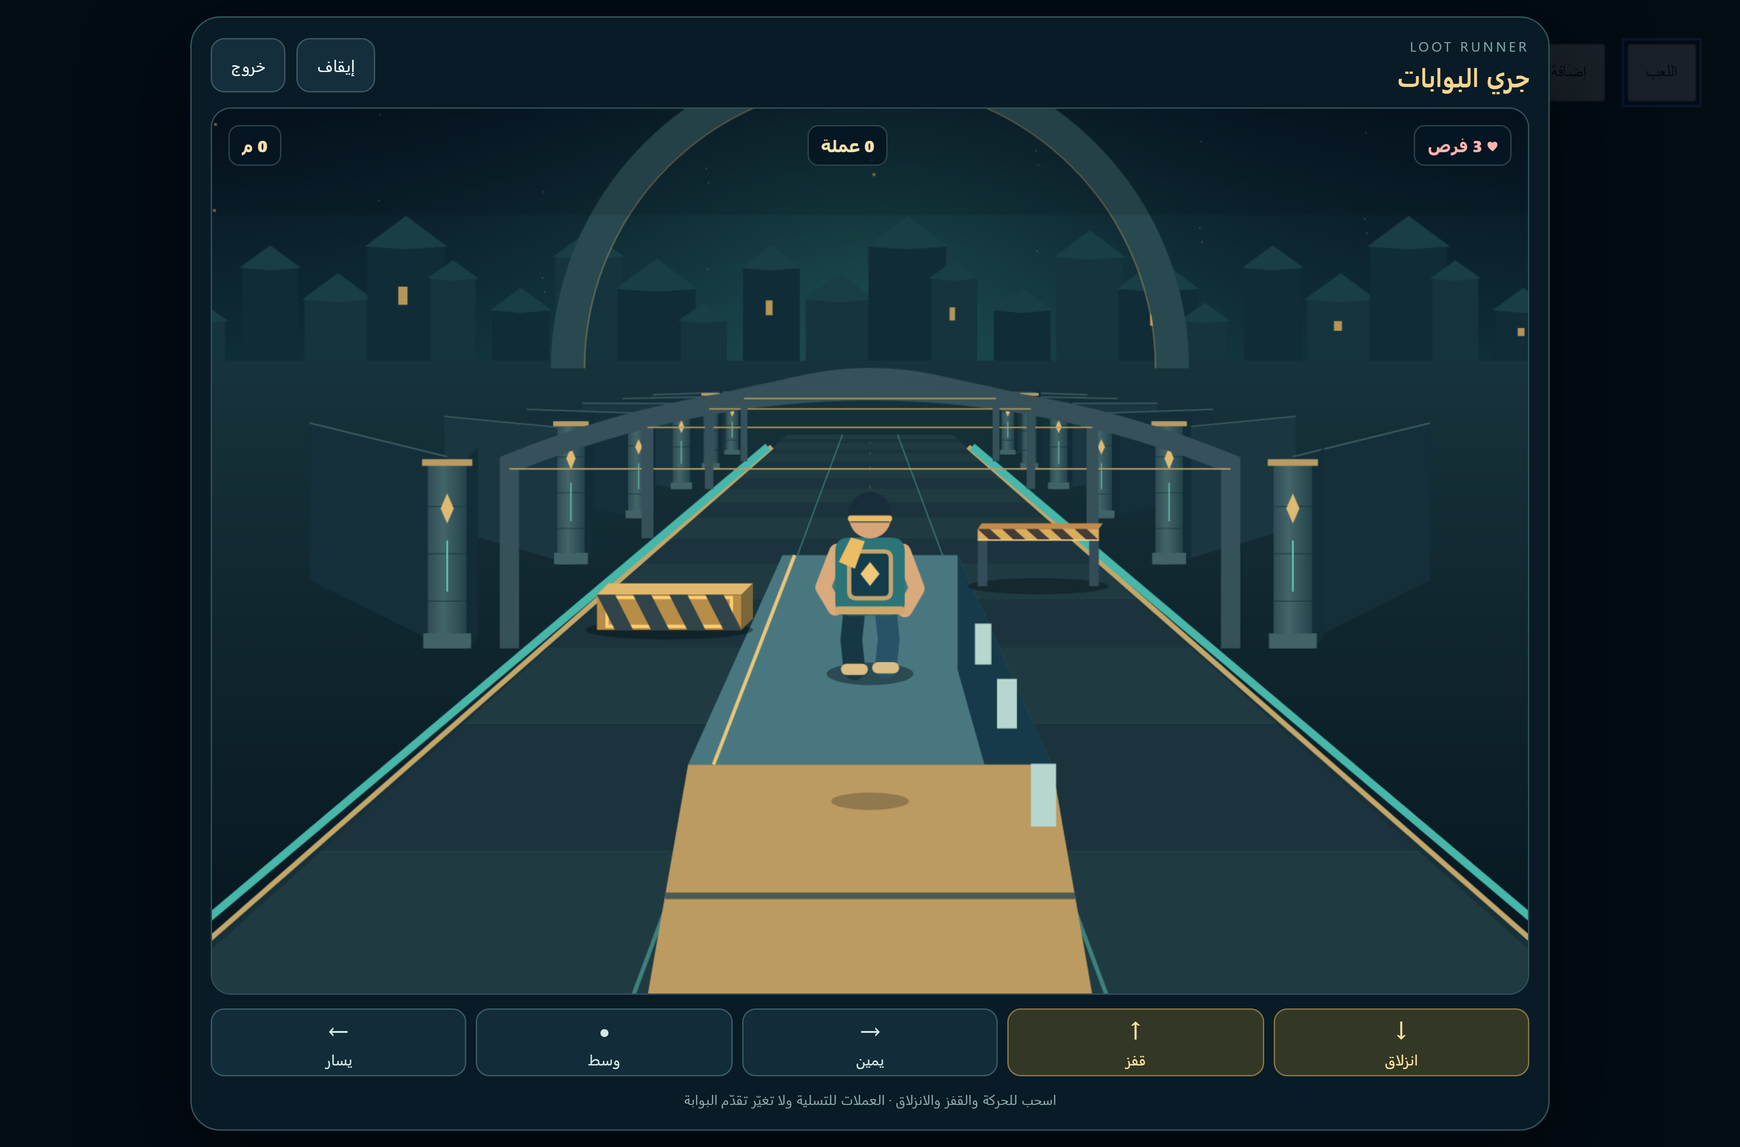
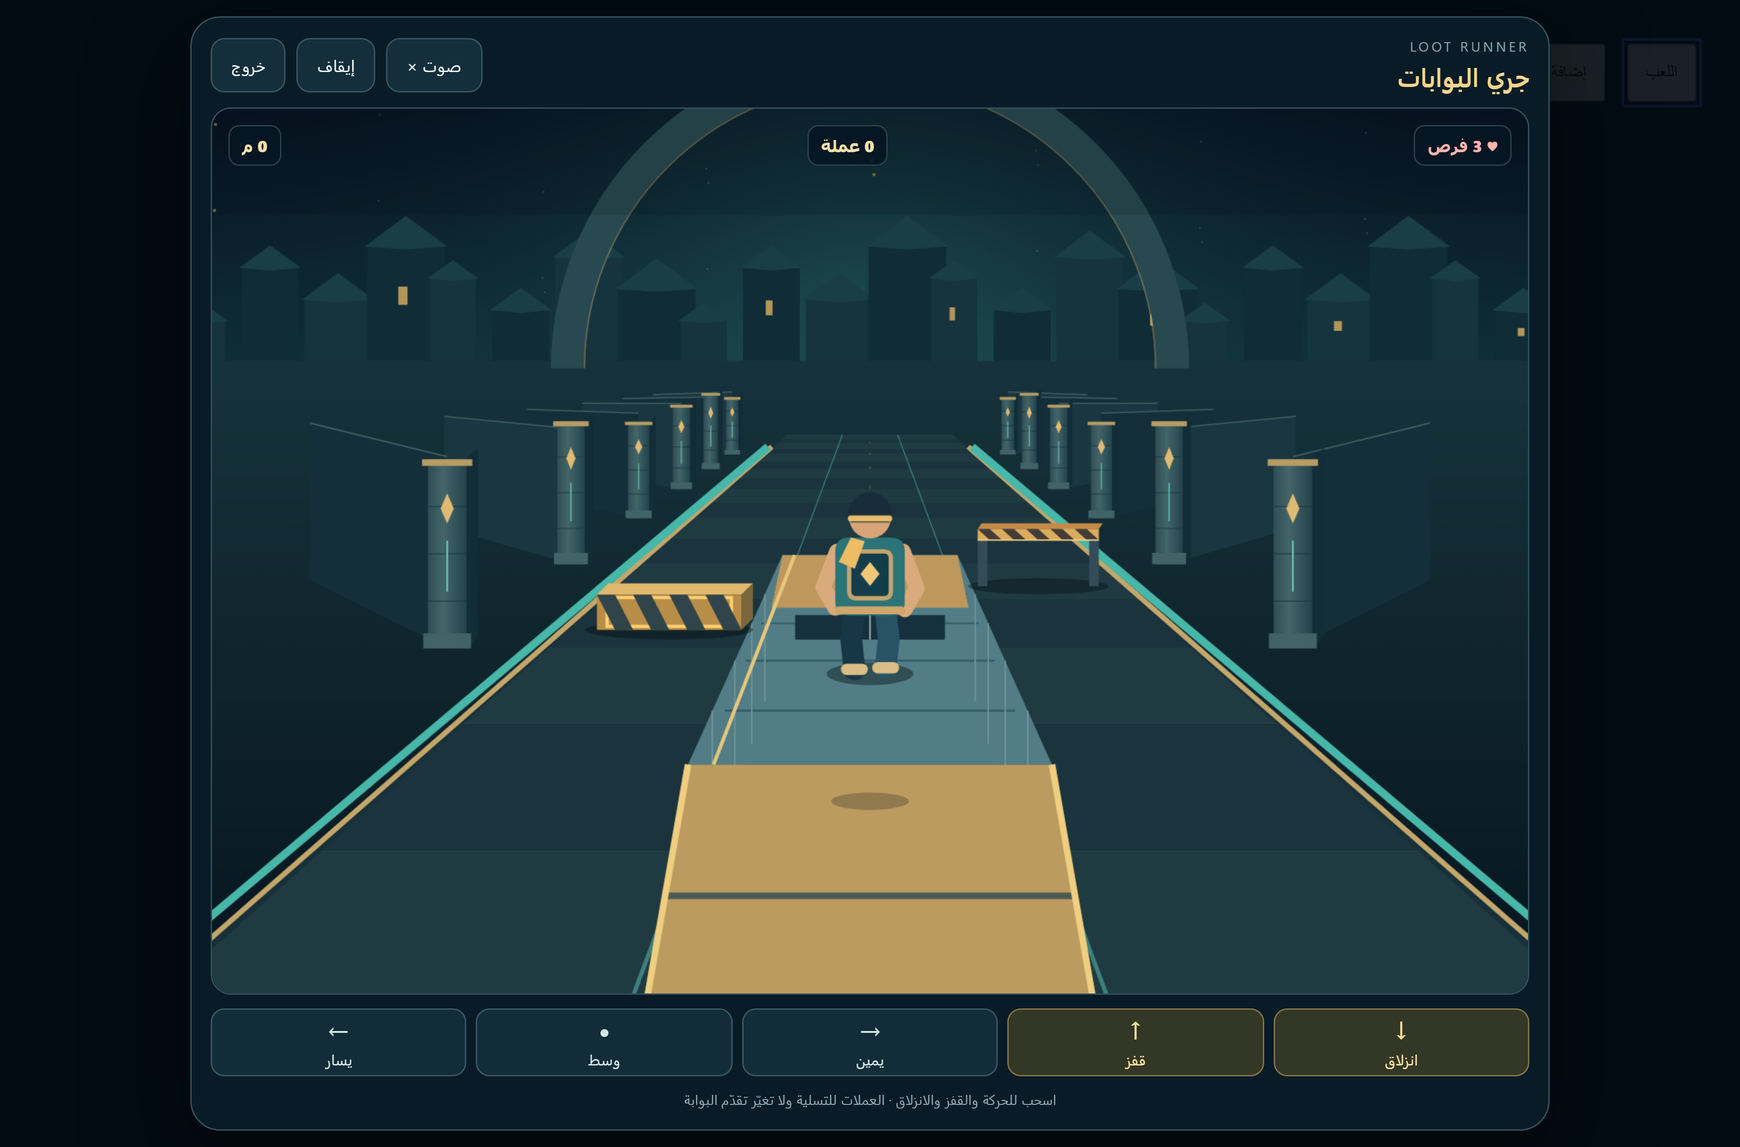
Polish runner truck, recovery gap, challenge coins and optional chimes

Changed region(s): [[0.2812, 0.312, 0.7188, 0.5616], [0.4375, 0.468, 0.625, 0.8424], [0.375, 0.6864, 0.4062, 0.8424]]

diff --git a/js/gate-runner.js b/js/gate-runner.js
@@ -67,15 +67,53 @@
     });
     const css = document.querySelector('link[data-runner-style]');
     const styles = css ? Promise.resolve() : new Promise((resolve, reject) => {
-      const link = document.createElement('link'); link.rel = 'stylesheet'; link.href = 'runner.css?v=20261106-runner-2';
+      const link = document.createElement('link'); link.rel = 'stylesheet'; link.href = 'runner.css?v=20261106-runner-3';
       link.dataset.runnerStyle = ''; link.onload = resolve; link.onerror = () => { link.remove(); reject(new Error('Runner styles unavailable')); };
       document.head.append(link);
     });
-    resources = Promise.all([styles, module('LootLinguaRunnerEngine', 'js/runner-engine.js?v=20261106-runner-2'), module('LootLinguaRunnerRenderer', 'js/runner-renderer.js?v=20261106-runner-2')]).catch(error => { resources = null; throw error; });
+    resources = Promise.all([styles, module('LootLinguaRunnerEngine', 'js/runner-engine.js?v=20261106-runner-3'), module('LootLinguaRunnerRenderer', 'js/runner-renderer.js?v=20261106-runner-3')]).catch(error => { resources = null; throw error; });
     return resources;
   }
   function button(label, cls, action) {
     const result = node('button', cls, label); result.type = 'button'; result.addEventListener('click', action); return result;
+  }
+  function createCoinAudio() {
+    const key = 'lootlingua.runner.sound.v1';
+    let enabled = true, context = null, master = null, closed = false, lastNote = -Infinity;
+    try { enabled = localStorage.getItem(key) !== '0'; } catch {}
+    function unlock() {
+      if (!enabled || closed) return;
+      try {
+        const Audio = window.AudioContext || window.webkitAudioContext;
+        if (!context && Audio) { context = new Audio(); master = context.createGain(); master.gain.value = 1; master.connect(context.destination); }
+        if (context?.state === 'suspended') void context.resume().catch(() => {});
+      } catch { /* Audio is optional; gameplay never waits for it. */ }
+    }
+    return {
+      get enabled() { return enabled; }, unlock,
+      toggle() {
+        enabled = !enabled;
+        try { localStorage.setItem(key, enabled ? '1' : '0'); } catch {}
+        if (master) master.gain.setTargetAtTime(enabled ? 1 : 0, context.currentTime, .008);
+        if (enabled) unlock();
+      },
+      play() {
+        if (!enabled || closed || context?.state !== 'running' || context.currentTime - lastNote < .065) return;
+        try {
+          const now = context.currentTime; lastNote = now;
+          for (const [pitch, delay] of [[1174.66, 0], [1760, .035]]) {
+            const note = context.createOscillator(), gain = context.createGain(), at = now + delay;
+            note.type = 'sine'; note.frequency.setValueAtTime(pitch, at);
+            gain.gain.setValueAtTime(.0001, at); gain.gain.exponentialRampToValueAtTime(.035, at + .006);
+            gain.gain.exponentialRampToValueAtTime(.0001, at + .13);
+            note.connect(gain); gain.connect(master);
+            note.onended = () => { note.disconnect(); gain.disconnect(); };
+            note.start(at); note.stop(at + .14);
+          }
+        } catch { /* Unsupported or interrupted audio stays silent. */ }
+      },
+      destroy() { closed = true; if (context) void context.close().catch(() => {}); },
+    };
   }
   async function launch(context) {
     if (activeRun) { activeRun.focus(); return false; }
@@ -96,8 +134,12 @@
     game.setAttribute('role', 'dialog'); game.setAttribute('aria-modal', 'true'); game.setAttribute('aria-label', 'لووت رنر — جري البوابات'); game.tabIndex = -1;
     const header = node('header', 'llr-header'), brand = node('div', 'llr-brand');
     brand.append(node('small', '', 'LOOT RUNNER'), node('strong', '', 'جري البوابات'));
+    const audio = createCoinAudio();
+    const sound = button('', 'llr-icon-button llr-sound', () => { audio.toggle(); syncSound(); });
+    function syncSound() { sound.textContent = audio.enabled ? 'صوت ✓' : 'صوت ×'; sound.setAttribute('aria-label', audio.enabled ? 'كتم صوت العملات' : 'تشغيل صوت العملات'); sound.setAttribute('aria-pressed', String(audio.enabled)); }
+    syncSound();
     const pause = button('إيقاف', 'llr-icon-button', () => setPaused(!state.paused)), exit = button('خروج', 'llr-icon-button', () => cleanup());
-    header.append(brand, pause, exit);
+    header.append(brand, sound, pause, exit);
     const viewport = node('div', 'llr-viewport'), canvas = node('canvas', 'llr-canvas');
     canvas.setAttribute('aria-hidden', 'true'); viewport.tabIndex = 0;
     viewport.setAttribute('aria-label', 'ثلاثة مسارات. الأسهم يمين ويسار للحركة، أعلى للقفز وأسفل للانزلاق. على الهاتف اسحب في الاتجاه نفسه.');
@@ -131,7 +173,7 @@
     };
     function cleanup() {
       if (destroyed) return; saveRun(); destroyed = true; cancelAnimationFrame(raf);
-      resizeObserver?.disconnect(); renderer?.destroy();
+      resizeObserver?.disconnect(); renderer?.destroy(); audio.destroy();
       window.removeEventListener('resize', resize); window.removeEventListener('keydown', keyboard, true);
       document.removeEventListener('visibilitychange', visibility);
       window.removeEventListener('lootlingua:auth-state', authChanged);
@@ -152,7 +194,7 @@
       if (!state.running || state.over) return;
       state.paused = value; pause.textContent = value ? 'متابعة' : 'إيقاف';
       if (value) { cancelAnimationFrame(raf); showScreen('استراحة قصيرة', 'خذ وقتك. الطريق ينتظرك.', 'متابعة الجري', () => setPaused(false)); }
-      else { screen.hidden = true; previous = performance.now(); raf = requestAnimationFrame(frame); viewport.focus({ preventScroll: true }); }
+      else { audio.unlock(); screen.hidden = true; previous = performance.now(); raf = requestAnimationFrame(frame); viewport.focus({ preventScroll: true }); }
     }
     function finish(reason) {
       state.running = false; cancelAnimationFrame(raf); saveRun(); challenge.hidden = options.hidden = true;
@@ -187,7 +229,9 @@
       if (!runnerOwnerCurrent(owner)) { cleanup(); return; }
       if (now - lastDueCheck > 1000) { lastDueCheck = now; if (reviewIsDue(context?.progress)) { finish('حان وقت المراجعة الموثّقة'); return; } }
       const delta = Math.min(50, Math.max(0, now - previous)); previous = now;
-      E.update(state, delta); renderer.draw(state); syncHUD();
+      E.update(state, delta);
+      if (state.events.some(event => event.type === 'coin')) audio.play();
+      renderer.draw(state); syncHUD();
       if (state.over) finish('رحلة جميلة! حاول تحطيم رقمك');
       else if (!state.paused && state.running) raf = requestAnimationFrame(frame);
     }
@@ -231,7 +275,7 @@
       syncHUD(); renderer.draw(state);
       const free = new Set(words.map(w => w.meaning)).size < 3;
       showScreen('الطريق لك', `اختر مسارك، اقفز فوق الحواجز وانزلق تحت العوارض. ${free ? 'هذه جولة جري حر؛ البوابة تحتاج ثلاثة معانٍ مختلفة لأسئلة الكلمات.' : 'عند ظهور كلمة، اعبر بوابة معناها الصحيح.'}`, 'انطلق', () => {
-        screen.hidden = true; state.running = true; state.paused = false; previous = performance.now(); viewport.focus({ preventScroll: true }); raf = requestAnimationFrame(frame);
+        audio.unlock(); screen.hidden = true; state.running = true; state.paused = false; previous = performance.now(); viewport.focus({ preventScroll: true }); raf = requestAnimationFrame(frame);
       });
       screen.insertBefore(node('div', 'llr-tutorial', '← → مسارات   ↑ قفز   ↓ انزلاق\nالهاتف: اسحب في الاتجاه نفسه أو استخدم الأزرار'), screen.lastChild);
       return true;

diff --git a/js/runner-renderer.js b/js/runner-renderer.js
@@ -142,15 +142,6 @@
           column(lane, z, index);
         }
       }
-      // A moving tunnel section adds scenery with a handful of canvas paths.
-      const tunnel = Math.floor(distance / 240) % 2 === 1;
-      if (tunnel) for (const z of [12, 30, 48, 66]) {
-        const a = project(-.68, z), b = project(2.68, z), h = actorHeight * 2.6 * a.scale;
-        context.strokeStyle = '#36515a'; context.lineWidth = Math.max(3, laneWidth * .09 * a.scale);
-        context.beginPath(); context.moveTo(a.x, a.y); context.lineTo(a.x, a.y - h * .7);
-        context.quadraticCurveTo(width / 2, a.y - h * 1.25, b.x, b.y - h * .7); context.lineTo(b.x, b.y); context.stroke();
-        line(context, a.x, a.y - h * .68, b.x, b.y - h * .68, '#b99b60', Math.max(1, a.scale * 2));
-      }
     }
     function shadow(x, y, w, h, alpha = .3) {
       context.fillStyle = `rgba(0,7,12,${alpha})`; context.beginPath(); context.ellipse(x, y, w, h, 0, 0, Math.PI * 2); context.fill();
@@ -176,18 +167,38 @@
         const ramp = project(entity.lane, entity.z + 6), end = project(entity.lane, entity.z + entity.length);
         const rw = laneWidth * .76 * ramp.scale, ew = laneWidth * .76 * end.scale;
         const ry = ramp.y - actorHeight * 1.05 * ramp.scale, ey = end.y - actorHeight * 1.05 * end.scale;
-        quad(context, ramp.x - rw / 2, ry, end.x - ew / 2, ey, end.x + ew / 2, ey, ramp.x + rw / 2, ry, '#497780');
-        quad(context, ramp.x + rw / 2, ry, end.x + ew / 2, ey, end.x + ew / 2, end.y, ramp.x + rw / 2, ramp.y, '#163a49');
+        // A parked cargo truck: rubber tyres, chassis, ribbed cargo roof,
+        // cab and rear loading ramp. All geometry shares the roof support height.
+        for (const offset of [7.5, entity.length - 4]) {
+          const axle = project(entity.lane, entity.z + offset), aw = laneWidth * .76 * axle.scale;
+          for (const side of [-1, 1]) {
+            const x = axle.x + side * aw * .48, y = axle.y - actorHeight * .08 * axle.scale;
+            context.fillStyle = '#070d12'; context.beginPath(); context.ellipse(x, y, aw * .095, actorHeight * .17 * axle.scale, 0, 0, Math.PI * 2); context.fill();
+            context.fillStyle = '#7b8d91'; context.beginPath(); context.ellipse(x, y, aw * .04, actorHeight * .075 * axle.scale, 0, 0, Math.PI * 2); context.fill();
+          }
+        }
+        quad(context, ramp.x - rw / 2, ry, end.x - ew / 2, ey, end.x - ew / 2, end.y - h * .05, ramp.x - rw / 2, ramp.y - h * .08, '#244c58');
+        quad(context, ramp.x + rw / 2, ry, end.x + ew / 2, ey, end.x + ew / 2, end.y - h * .05, ramp.x + rw / 2, ramp.y - h * .08, '#173944');
+        quad(context, ramp.x - rw / 2, ry, end.x - ew / 2, ey, end.x + ew / 2, ey, ramp.x + rw / 2, ry, '#527d86');
+        for (let offset = 8; offset < entity.length - 3; offset += 2.5) {
+          const rib = project(entity.lane, entity.z + offset), ribWidth = laneWidth * .76 * rib.scale, roofY = rib.y - actorHeight * 1.05 * rib.scale;
+          line(context, rib.x - ribWidth * .46, roofY, rib.x + ribWidth * .46, roofY, '#355e69', Math.max(1, rib.scale * 1.5));
+          for (const side of [-1, 1]) line(context, rib.x + side * ribWidth * .5, roofY, rib.x + side * ribWidth * .5, rib.y - actorHeight * .23 * rib.scale, '#739498', Math.max(1, rib.scale));
+        }
+        const cab = project(entity.lane, entity.z + entity.length - 3), cw = laneWidth * .76 * cab.scale, cy = cab.y - actorHeight * .82 * cab.scale;
+        quad(context, cab.x - cw / 2, cy, end.x - ew / 2, ey, end.x + ew / 2, ey, cab.x + cw / 2, cy, '#bd975c');
+        context.fillStyle = '#17303e'; context.fillRect(cab.x - cw * .38, cy + actorHeight * .06 * cab.scale, cw * .76, actorHeight * .2 * cab.scale);
+        line(context, cab.x, cy + actorHeight * .06 * cab.scale, cab.x, cy + actorHeight * .26 * cab.scale, '#b7c8c6', Math.max(1, cab.scale));
+        context.fillStyle = '#263943'; context.fillRect(ramp.x - rw * .5, ramp.y - h * .17, rw, h * .12);
+        for (const side of [-1, 1]) { context.fillStyle = '#eb6b51'; context.fillRect(ramp.x + side * rw * .4 - rw * .04, ramp.y - h * .16, rw * .08, h * .07); }
         quad(context, p.x - w / 2, p.y, p.x + w / 2, p.y, ramp.x + rw / 2, ry, ramp.x - rw / 2, ry, '#bc9b61');
         for (let i = 1; i < 6; i++) {
           const t = i / 6;
           line(context, p.x - w / 2 + (ramp.x - rw / 2 - p.x + w / 2) * t, p.y + (ry - p.y) * t,
             p.x + w / 2 + (ramp.x + rw / 2 - p.x - w / 2) * t, p.y + (ry - p.y) * t, '#4b5a55', Math.max(1, p.scale * 2));
         }
-        for (let i = 8; i < entity.length; i += 4) {
-          const q = project(entity.lane, entity.z + i), qw = laneWidth * .76 * q.scale;
-          context.fillStyle = '#b7d6cf'; context.fillRect(q.x + qw * .51, q.y - actorHeight * .78 * q.scale, Math.max(2, qw * .08), actorHeight * .32 * q.scale);
-        }
+        line(context, p.x - w / 2, p.y, ramp.x - rw / 2, ry, '#efce80', Math.max(1, p.scale * 2));
+        line(context, p.x + w / 2, p.y, ramp.x + rw / 2, ry, '#efce80', Math.max(1, p.scale * 2));
         line(context, ramp.x - rw * .43, ry, end.x - ew * .43, ey, '#e7c77c', Math.max(1, ramp.scale * 2));
         return;
       }

diff --git a/js/runner-engine.js b/js/runner-engine.js
@@ -115,14 +115,16 @@
     if (state.elapsed < state._nextRowAt || state.elapsed < state._safeUntil) return;
     const reading = state.gate && !state.gate.resolved;
     const clearance = (SPAWN_Z + 24) / BASE_SPEED * 1000 + 250;
-    const draining = !reading && hasGateWords(state) && state._nextGateAt - state.elapsed < clearance;
-    const spawnZ = reading ? Math.max(SPAWN_Z, state.gate.z + 24) : SPAWN_Z;
+    // Do not queue hidden hazards behind the reading veil: returning to full
+    // speed would compress their spacing and reveal them too close together.
+    const draining = reading || hasGateWords(state) && state._nextGateAt - state.elapsed < clearance;
+    const spawnZ = SPAWN_Z;
     const escapeOptions = [0, 1, 2].filter(lane => Math.abs(lane - state._escapeLane) <= 1);
     const escape = choose(state, escapeOptions);
     const blocked = [0, 1, 2].filter(lane => lane !== escape);
     if (random(state) > .5) blocked.reverse();
     const obstacleCount = state.distance > 120 && random(state) > .25 ? 2 : 1;
-    if (state._pool.length < obstacleCount + 4) return;
+    if (state._pool.length < obstacleCount + 6) return;
     const row = ++state._row;
     for (let index = 0; index < (draining ? 0 : obstacleCount); index++) {
       const lane = blocked[index];
@@ -130,6 +132,10 @@
       const type = row > 5 && row % 7 === 0 && index === 0 ? 'train' : choose(state, ['low', 'overhead', 'wall']);
       allocate(state, { kind: 'obstacle', obstacleType: type, length: type === 'train' ? 20 : 0, lane, z: spawnZ, row });
       if (type === 'train') for (const offset of [10, 15]) allocate(state, { kind: 'coin', lane, z: spawnZ + offset, height: 1.49, row });
+      if (['low', 'overhead'].includes(type) && random(state) < .65) {
+        for (const offset of [0, 2]) allocate(state, { kind: 'coin', lane, z: spawnZ + offset,
+          height: type === 'low' ? 1.5 : .22, requires: type === 'low' ? 'jump' : 'slide', row });
+      }
     }
     allocate(state, { kind: 'coin', lane: escape, z: spawnZ + 3, row });
     allocate(state, { kind: 'coin', lane: escape, z: spawnZ + 6, row });
@@ -154,7 +160,8 @@
       emit(state, { type: 'gate', correct, word: entity.word, correctMeaning: entity.correctMeaning, chosenLane: state.lane });
     } else if (entity.lane === state.lane && entity.kind === 'coin') {
       const pose = getPose(state, at), height = entity.height ?? .44;
-      if (pose.feet <= height + .12 && pose.top >= height - .12) {
+      const reachable = !entity.requires || entity.requires === 'jump' && pose.feet >= .37 || entity.requires === 'slide' && pose.top <= .6;
+      if (reachable && pose.feet <= height + .12 && pose.top >= height - .12) {
         entity.collected = true;
         state.coins++; emit(state, { type: 'coin', id: entity.id, amount: 1, total: state.coins });
       }

diff --git a/runner.css b/runner.css
@@ -4,6 +4,8 @@
 .llr-game *, .llr-game *::before, .llr-game *::after { box-sizing: border-box; }
 .llr-header { display: flex; align-items: center; gap: 8px; }
 .llr-brand { display: grid; gap: 2px; flex: 1; }
+.llr-brand { min-width: 0; }
+.llr-sound { white-space: nowrap; }
 .llr-brand small { color: #83a6ad; font-size: 10px; letter-spacing: .2em; }
 .llr-brand strong { font-size: 19px; color: #f5d58e; }
 .llr-icon-button { border: 1px solid #3a5661; background: #152e3b; color: #effafa; border-radius: 10px; padding: 8px 14px; min-height: 40px; cursor: pointer; font: inherit; font-size: 12px; }
@@ -43,5 +45,6 @@
 .llr-hint { margin: 0; color: #93afb5; font-size: 10px; line-height: 1.5; text-align: center; }
 .llr-game button:focus-visible, .llr-viewport:focus-visible { outline: 2px solid #f4d389; outline-offset: 2px; }
 .llr-game [hidden] { display: none !important; }
+@media (max-width: 360px) { .llr-brand small { font-size: 8px; letter-spacing: .08em; } .llr-header .llr-brand strong { font-size: 13px; } .llr-header .llr-icon-button { padding-inline: 7px; font-size: 11px; } }
 @media (max-width: 560px) { .llr-overlay { padding: 5px; } .llr-game { height: calc(100dvh - 10px); padding: 8px; gap: 7px; border-radius: 15px; } .llr-brand strong { font-size: 16px; } .llr-header { gap: 5px; } .llr-icon-button { padding: 7px 10px; } .llr-hud { inset: 9px 7px auto; } .llr-hud span { font-size: 11px; padding: 5px 7px; } .llr-screen { gap: 12px; } .llr-screen p { font-size: 13px; } .llr-challenge { top: 48px; } }
 @media (max-height: 480px) and (orientation: landscape) { .llr-game { width: 100%; height: calc(100dvh - 10px); padding: 6px; grid-template-columns: minmax(0,1fr) 108px; grid-template-rows: auto minmax(0,1fr); gap: 5px; } .llr-header { grid-column: 1/-1; } .llr-viewport { grid-column: 1; grid-row: 2; } .llr-controls { grid-column: 2; grid-row: 2; grid-template-columns: repeat(2,minmax(0,1fr)); } .llr-hint { display: none; } .llr-screen { gap: 7px; padding: 10px; } .llr-screen h2 { font-size: 22px; } .llr-screen p { font-size: 11px; } .llr-tutorial { display: none; } .llr-challenge { top: 40px; padding: 4px; } .llr-challenge strong { font-size: 20px; } }

diff --git a/index.html b/index.html
@@ -1211,7 +1211,7 @@
 <script src="js/xp-batch.js?v=20261105-integrity-1"></script>
 <script src="js/dictionary.js?v=20261106-stage2-1"></script>
 <script src="js/gate-game-migration.js?v=20261007-1"></script>
-<script src="js/gate-runner.js?v=20261106-runner-2"></script>
+<script src="js/gate-runner.js?v=20261106-runner-3"></script>
 <script src="js/worlds.js?v=20261106-stage2-1"></script>
 <script src="js/dictionary-window.js?v=20261105-render-1"></script>
 <script src="js/dictionary-render.js?v=20261105-pages-1"></script>

diff --git a/reports/runner-evidence/README.md b/reports/runner-evidence/README.md
@@ -9,7 +9,7 @@ No Firebase or production API writes occur.
 
 Final result: all focused checks pass; `runtimeExceptions` is empty.
 
-`npm run test:runner` also passes 21 focused engine, profile synchronization
+`npm run test:runner` also passes 24 focused engine, profile synchronization
 and expedition tests: crossing-time collisions, gate evaluation, pause,
 invulnerability and bounded object reuse over 20,000 updates.
 
@@ -34,14 +34,22 @@ invulnerability and bounded object reuse over 20,000 updates.
 images use the real renderer and cloned controller UI after controller cleanup,
 with explicit public engine states for a gate, low/overhead/wall obstacles,
 jump and slide. This avoids mutating a live run or competing resize callbacks.
-`train-rooftop.png` shows the shared roof support height, elevated coins and
-the lightweight tunnel scenery in another isolated renderer state.
+`train-rooftop.png` shows the shared roof support height and the cargo truck
+in another isolated renderer state. The tunnel has been removed.
 
 The second iteration spaces gates 30–48 seconds apart (30–42 seconds for the
 first), gradually increases running speed, and temporarily slows reading gates.
-Rows queue behind a gate's dark road veil, so play resumes without waiting for
-a completely new obstacle batch. Collision and drawing share one height model:
+Hidden hazard rows no longer queue behind the reading veil. A recovery pause
+plus the next row's approach leaves over three seconds before the first
+possible collision even at maximum speed. Collision and drawing share one height model:
 high jumps miss ground coins, slides clear overhead beams, and carriage ramps
 support the runner and elevated coins. Near-obstacle hints help time actions.
+
+Bonus coins are placed above low jumpable barriers or below slidable beams;
+they require the matching body clearance. Tall walls never receive these
+trails. Coin chimes use short quiet Web Audio notes only on actual coin events,
+with a persisted mute toggle and audio-context cleanup on exit. The browser
+check verifies note creation, absence of notes before collection, and muting;
+musical preference still needs a human listening check.
 
 These are focused local measurements, not a claim of 60 FPS on every device.
